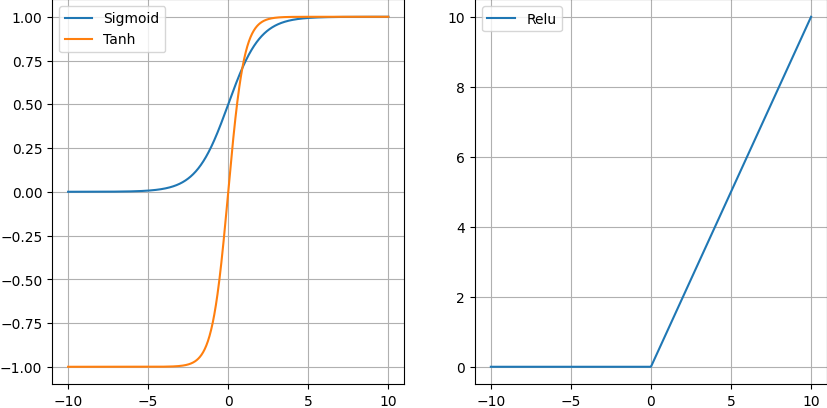
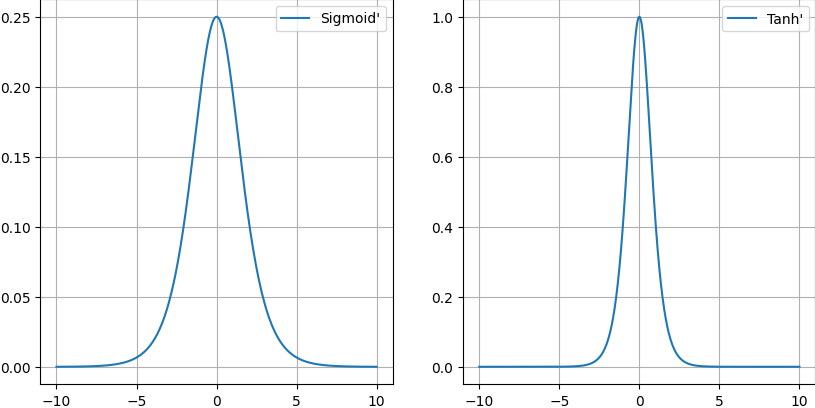
update

diff --git a/lenet_loop_train_CIFAR10.py b/lenet_loop_train_CIFAR10.py
@@ -5,7 +5,7 @@ import torch.optim as optim
 from torchsummary import summary
 
 from model.LeNet import LeNet5, modern_LeNet5
-from dataSet import load_MNIST, load_CIFAR10
+from dataSet import CIFAR10_Dataloader
 from utils import check_Device, real_Time, get_LearningRate, get_Accuracy, time_Stamp, top_Err, data_Save
 
 # 检查cuda
@@ -27,34 +27,40 @@ PRINT_EVERY = 1
 MILESTONES = list(map(int, [EPOCHS * 0.5, EPOCHS * 0.75]))
 
 # 数据设置
-train_loader, valid_loader, channel = load_CIFAR10(BATCH_SIZE, Normalize=True, Random=True, Noise=None)
+train_loader, valid_loader, channel = CIFAR10_Dataloader(batch_size=BATCH_SIZE, Augment=True)
 
 
 classic_Model = [LeNet5(),  # 使用AvgPool池化和Tanh激活的经典LeNet5
                  LeNet5(SE2=True),  # 在第二个卷积层后添加SE Block
                  LeNet5(BN2=True),  # 在第二个卷积层后添加BatchNorm
                  LeNet5(BN2=True, SE2=True),  # 在第二个卷积层后添加BatchNorm、SE Block
+                 LeNet5(SE1=True),
+                 LeNet5(BN1=True),
                  LeNet5(BN1=True, SE1=True),  # 在第一个卷积层后添加BatchNorm、SE Block
                  LeNet5(BN1=True, BN2=True),  # 在两个卷积层后都添加BatchNorm
+                 LeNet5(BN1=True, SE1=True, BN2=True, SE2=True),
                  LeNet5(BN1=True, BN2=True, SE2=True),
-                 LeNet5(BN1=True, SE1=True, BN2=True),
-                 LeNet5(BN1=True, SE1=True, BN2=True, SE2=True)]
+                 LeNet5(BN1=True, SE1=True, BN2=True)
+                 ]
+'''
+
 
 modern_Model = [modern_LeNet5(BN1=True, BN2=True),
                 modern_LeNet5(BN1=True, BN2=True, SE2=True),
                 modern_LeNet5(BN1=True, SE1=True, BN2=True),
                 modern_LeNet5(BN1=True, SE1=True, BN2=True, SE2=True)]
-
-for net in classic_Model + modern_Model:
+'''
+for net in classic_Model:
     model = net.to(device)
     summary(model, (channel, 32, 32))
     params = sum(p.numel() for p in list(model.parameters())) / 1e6
     print('#Params: %.1fM' % params)
 
     criterion = nn.CrossEntropyLoss()
+    # optimizer = optim.SGD(net.parameters(), lr=LEARNING_RATE)
+    # optimizer = optim.SGD(net.parameters(), lr=LEARNING_RATE, momentum=0.9)
     optimizer = optim.SGD(net.parameters(), lr=LEARNING_RATE, momentum=0.9, weight_decay=1e-4)
-    # optimizer = optim.Adam(net.parameters(), lr=LEARNING_RATE, momentum=0.9, weight_decay=1e-4)
-    # optimizer = optim.SGDM(net.parameters(), lr=LEARNING_RATE, momentum=0.9, weight_decay=1e-4)
+
 
     scheduler = optim.lr_scheduler.MultiStepLR(optimizer, milestones=MILESTONES, gamma=0.1)
 

diff --git a/plot/Activation.py b/plot/Activation.py
@@ -2,9 +2,7 @@
 import matplotlib.pyplot as plt
 import numpy as np
 
-# 函数
-
-
+'''
 start = -10  # 输入需要绘制的起始值（从左到右）
 stop = 10  # 输入需要绘制的终点值
 step = 0.02  # 输入步长
@@ -35,6 +33,34 @@ x = np.linspace(start, stop, int(num))
 y = g(x)
 ax2.plot(x, y, label='Relu')
 
+plt.grid(True)  # 显示网格
+
+plt.legend()  # 显示旁注#注意：不会显示后来再定义的旁注
+plt.savefig("./" + "Activation.png", bbox_inches='tight', pad_inches=0)
+
+plt.show()
+
+'''
+start = -10  # 输入需要绘制的起始值（从左到右）
+stop = 10  # 输入需要绘制的终点值
+step = 0.02  # 输入步长
+fig = plt.figure(figsize=(10, 5))
+
+ax1 = plt.subplot(1, 2, 1)
+num = (stop - start) / step  # 计算点的个数
+g = lambda z: (np.exp(-z)) / ((1 + np.exp(-z)) * (1 + np.exp(-z)))
+x = np.linspace(start, stop, int(num))
+y = g(x)
+l1 = ax1.plot(x, y, label="Sigmoid'")
+plt.legend()
+plt.grid(True)  # 显示网格
+
+ax2 = plt.subplot(1, 2, 2)
+#g = lambda z: 1 - ((np.exp(z) - np.exp(-z)) * (np.exp(z) - np.exp(-z))) / ((np.exp(z) + np.exp(-z)) * (np.exp(z) + np.exp(-z)))
+g = lambda z:4 / ((np.exp(z) + np.exp(-z)) * (np.exp(z) + np.exp(-z)))
+x = np.linspace(start, stop, int(num))
+y = g(x)
+l2 = ax2.plot(x, y, label="Tanh'")
 plt.grid(True)  # 显示网格
 
 plt.legend()  # 显示旁注#注意：不会显示后来再定义的旁注

diff --git a/dataSet/duel_Plot.py b/dataSet/duel_Plot.py
@@ -14,13 +14,13 @@ def load_Npy(npy_path):
 def full_Plot():
     size = 18
 
-    (train_acc1, valid_acc1), (train_loss1, valid_loss1) = load_Npy(r"./无数据增强MNIST/LeNet5/")
+    (train_acc1, valid_acc1), (train_loss1, valid_loss1) = load_Npy(r"./无数据增强CIFAR10/LeNet5/")
     train_loss1 = np.array(train_loss1)
     valid_loss1 = np.array(valid_loss1)
     train_acc1 = np.array(train_acc1)
     valid_acc1 = np.array(valid_acc1)
 
-    (train_acc2, valid_acc2), (train_loss2, valid_loss2) = load_Npy(r"./无数据增强MNIST/ResNet18/")
+    (train_acc2, valid_acc2), (train_loss2, valid_loss2) = load_Npy(r"./无数据增强CIFAR10/ResNet18/")
     train_loss2 = np.array(train_loss2)
     valid_loss2 = np.array(valid_loss2)
     train_acc2 = np.array(train_acc2)
@@ -128,7 +128,7 @@ def full_Plot():
     ax2.grid(b=False, axis="y")
     ax[1].grid(b=True, axis="x")
 
-    Path = r"./无数据增强MNIST"
+    Path = r"./无数据增强CIFAR10"
     fig.savefig(Path + "/" + "无数据增强.png", bbox_inches='tight', pad_inches=0)
     fig.show()
     plt.style.use('default')

diff --git a/resnet_loop_train_CIFAR10.py b/resnet_loop_train_CIFAR10.py
@@ -23,7 +23,7 @@ torch.backends.cudnn.deterministic = True
 # 参数设置
 LEARNING_RATE = 0.1
 BATCH_SIZE = 128
-EPOCHS = 80
+EPOCHS = 100
 PRINT_EVERY = 1
 MILESTONES = list(map(int, [EPOCHS * 0.5, EPOCHS * 0.75]))
 
@@ -37,9 +37,9 @@ for net in [resnet18(), se_resnet18()]:
     print('#Params: %.1fM' % params)
 
     criterion = nn.CrossEntropyLoss()
-    optimizer = optim.SGD(net.parameters(), lr=LEARNING_RATE, momentum=0.9, weight_decay=1e-4)
-    # optimizer = optim.Adam(net.parameters(), lr=LEARNING_RATE, momentum=0.9, weight_decay=1e-4)
-    # optimizer = optim.SGDM(net.parameters(), lr=LEARNING_RATE, momentum=0.9, weight_decay=1e-4)
+    optimizer = optim.SGD(net.parameters(), lr=LEARNING_RATE)
+    # optimizer = optim.SGD(net.parameters(), lr=LEARNING_RATE, momentum=0.9)
+    # optimizer = optim.SGD(net.parameters(), lr=LEARNING_RATE, momentum=0.9, weight_decay=1e-4)
 
     scheduler = optim.lr_scheduler.MultiStepLR(optimizer, milestones=MILESTONES, gamma=0.1)
 

diff --git a/dataSet/BN.py b/dataSet/BN.py
@@ -1,0 +1,23 @@
+import torch
+import torch.nn as nn
+
+
+class example(nn.Module):
+    def __init__(self):
+        super(example, self).__init__()
+        self.fc1 = nn.Linear(3, 3)
+        self.bn = nn.BatchNorm1d(num_features=3)
+
+    def forward(self, x):
+        print(x)  # 输入
+        x = self.fc1(x)
+        x = self.bn(x)
+        return x
+
+
+datas = torch.tensor([[1, 2, 3], [4, 5, 6]], dtype=torch.float)
+datas = datas.cuda()
+net = example().cuda()
+#  summary(net.cuda(),(3,))
+out = net(datas)
+print(out)
